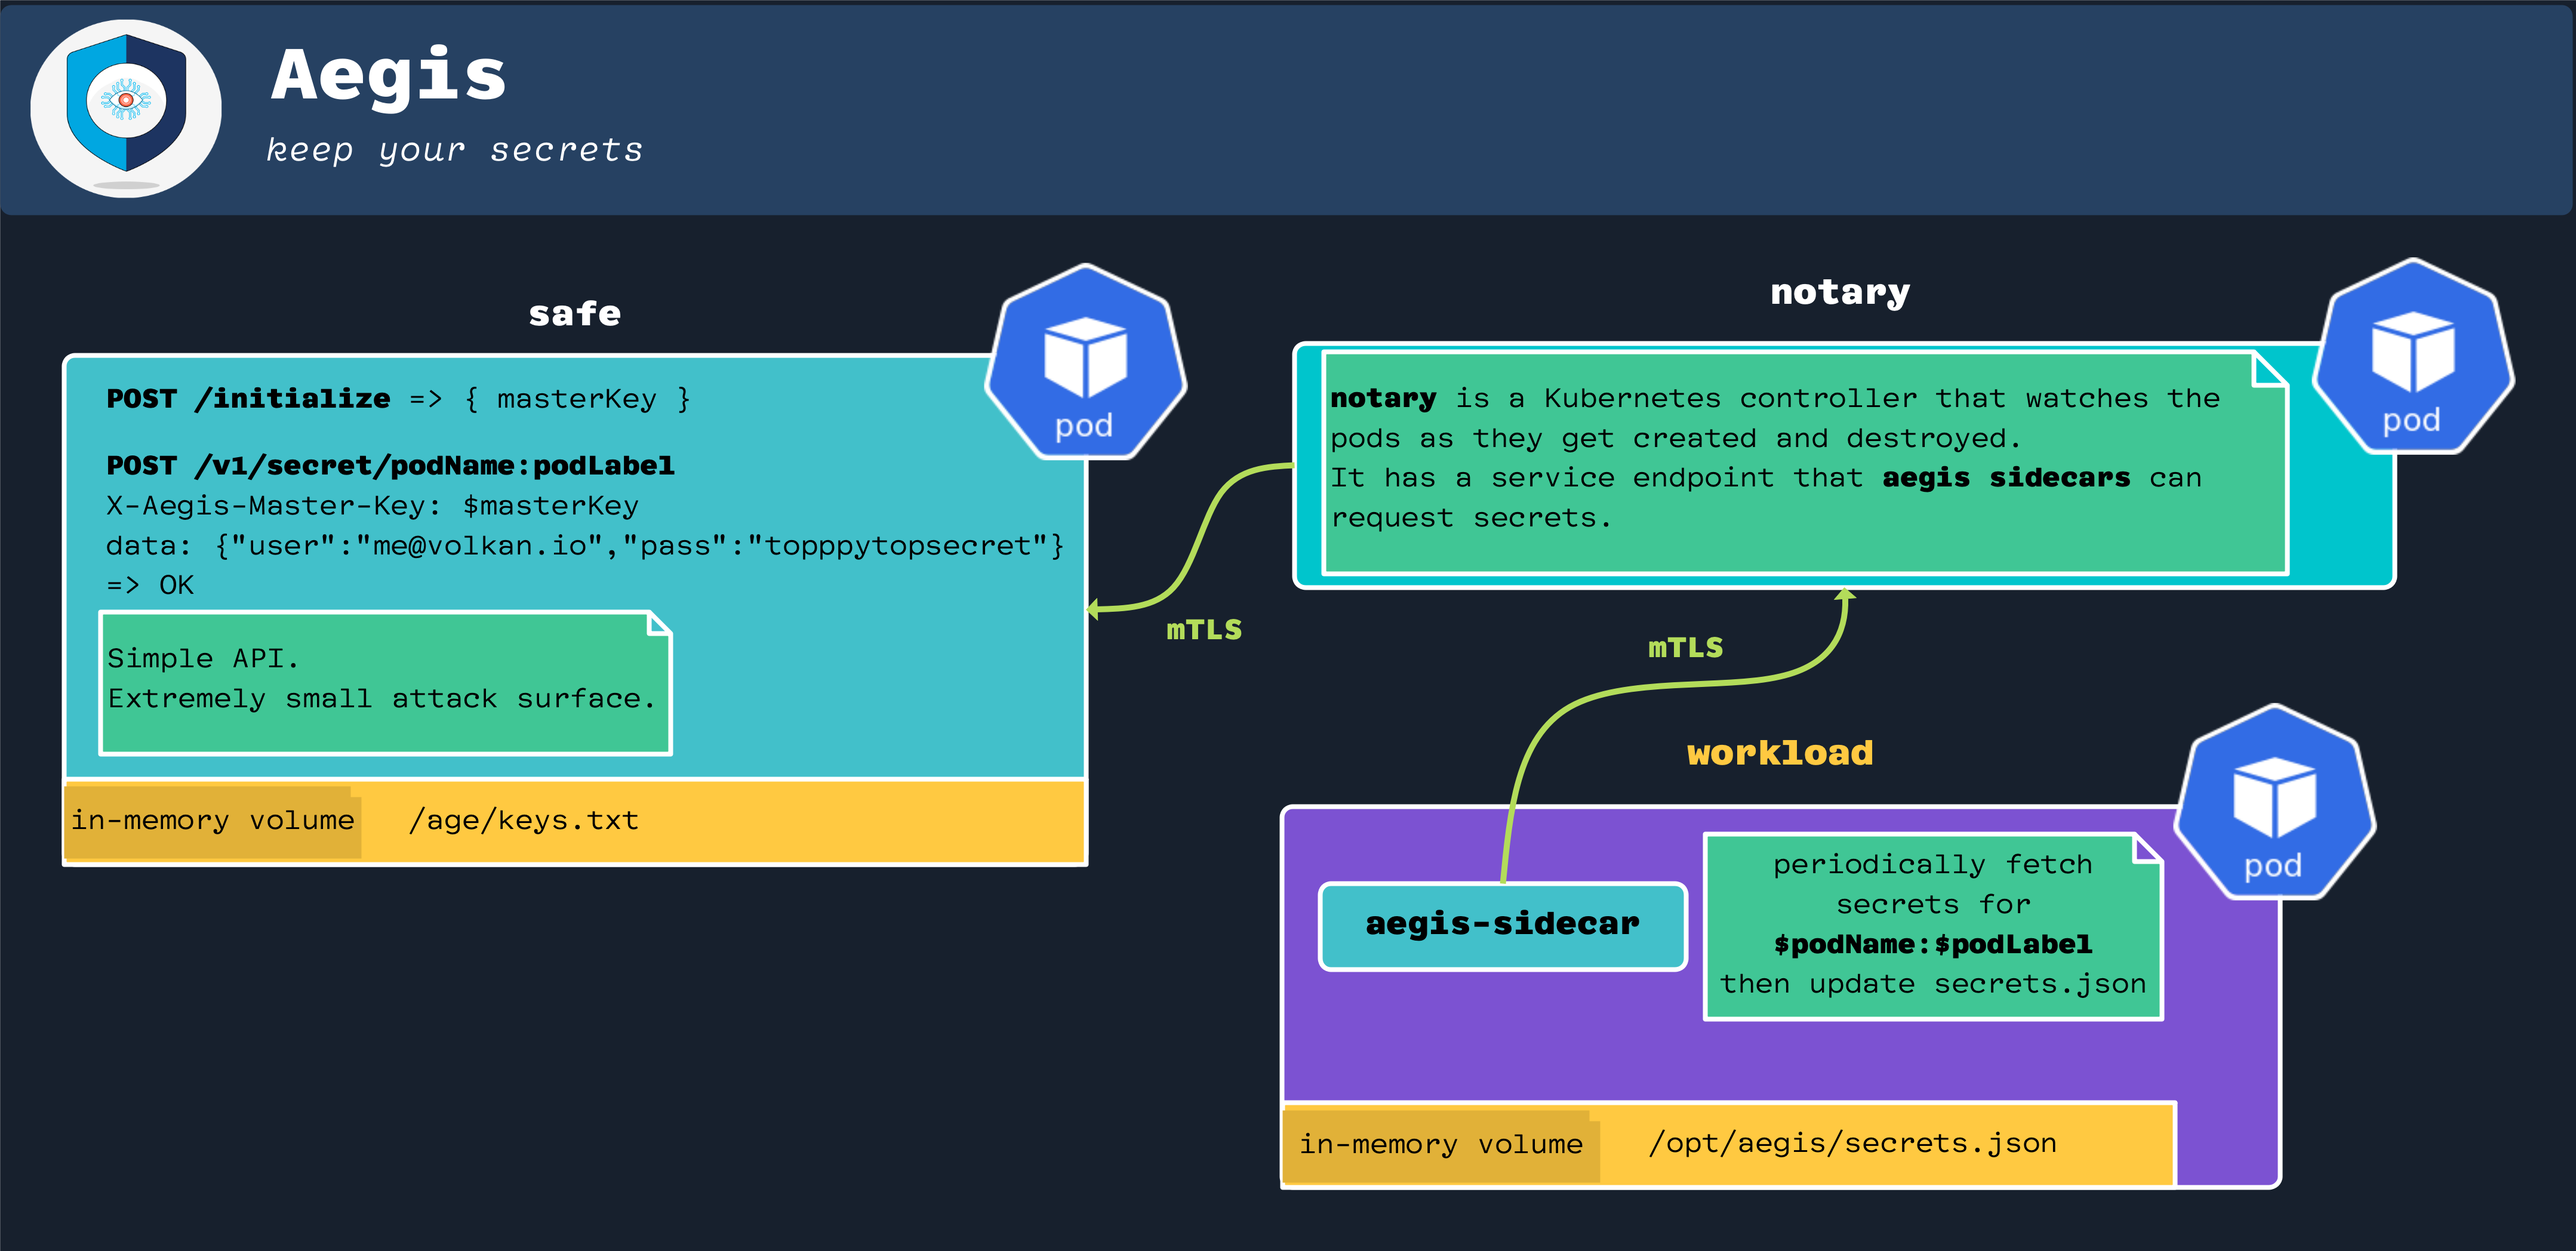
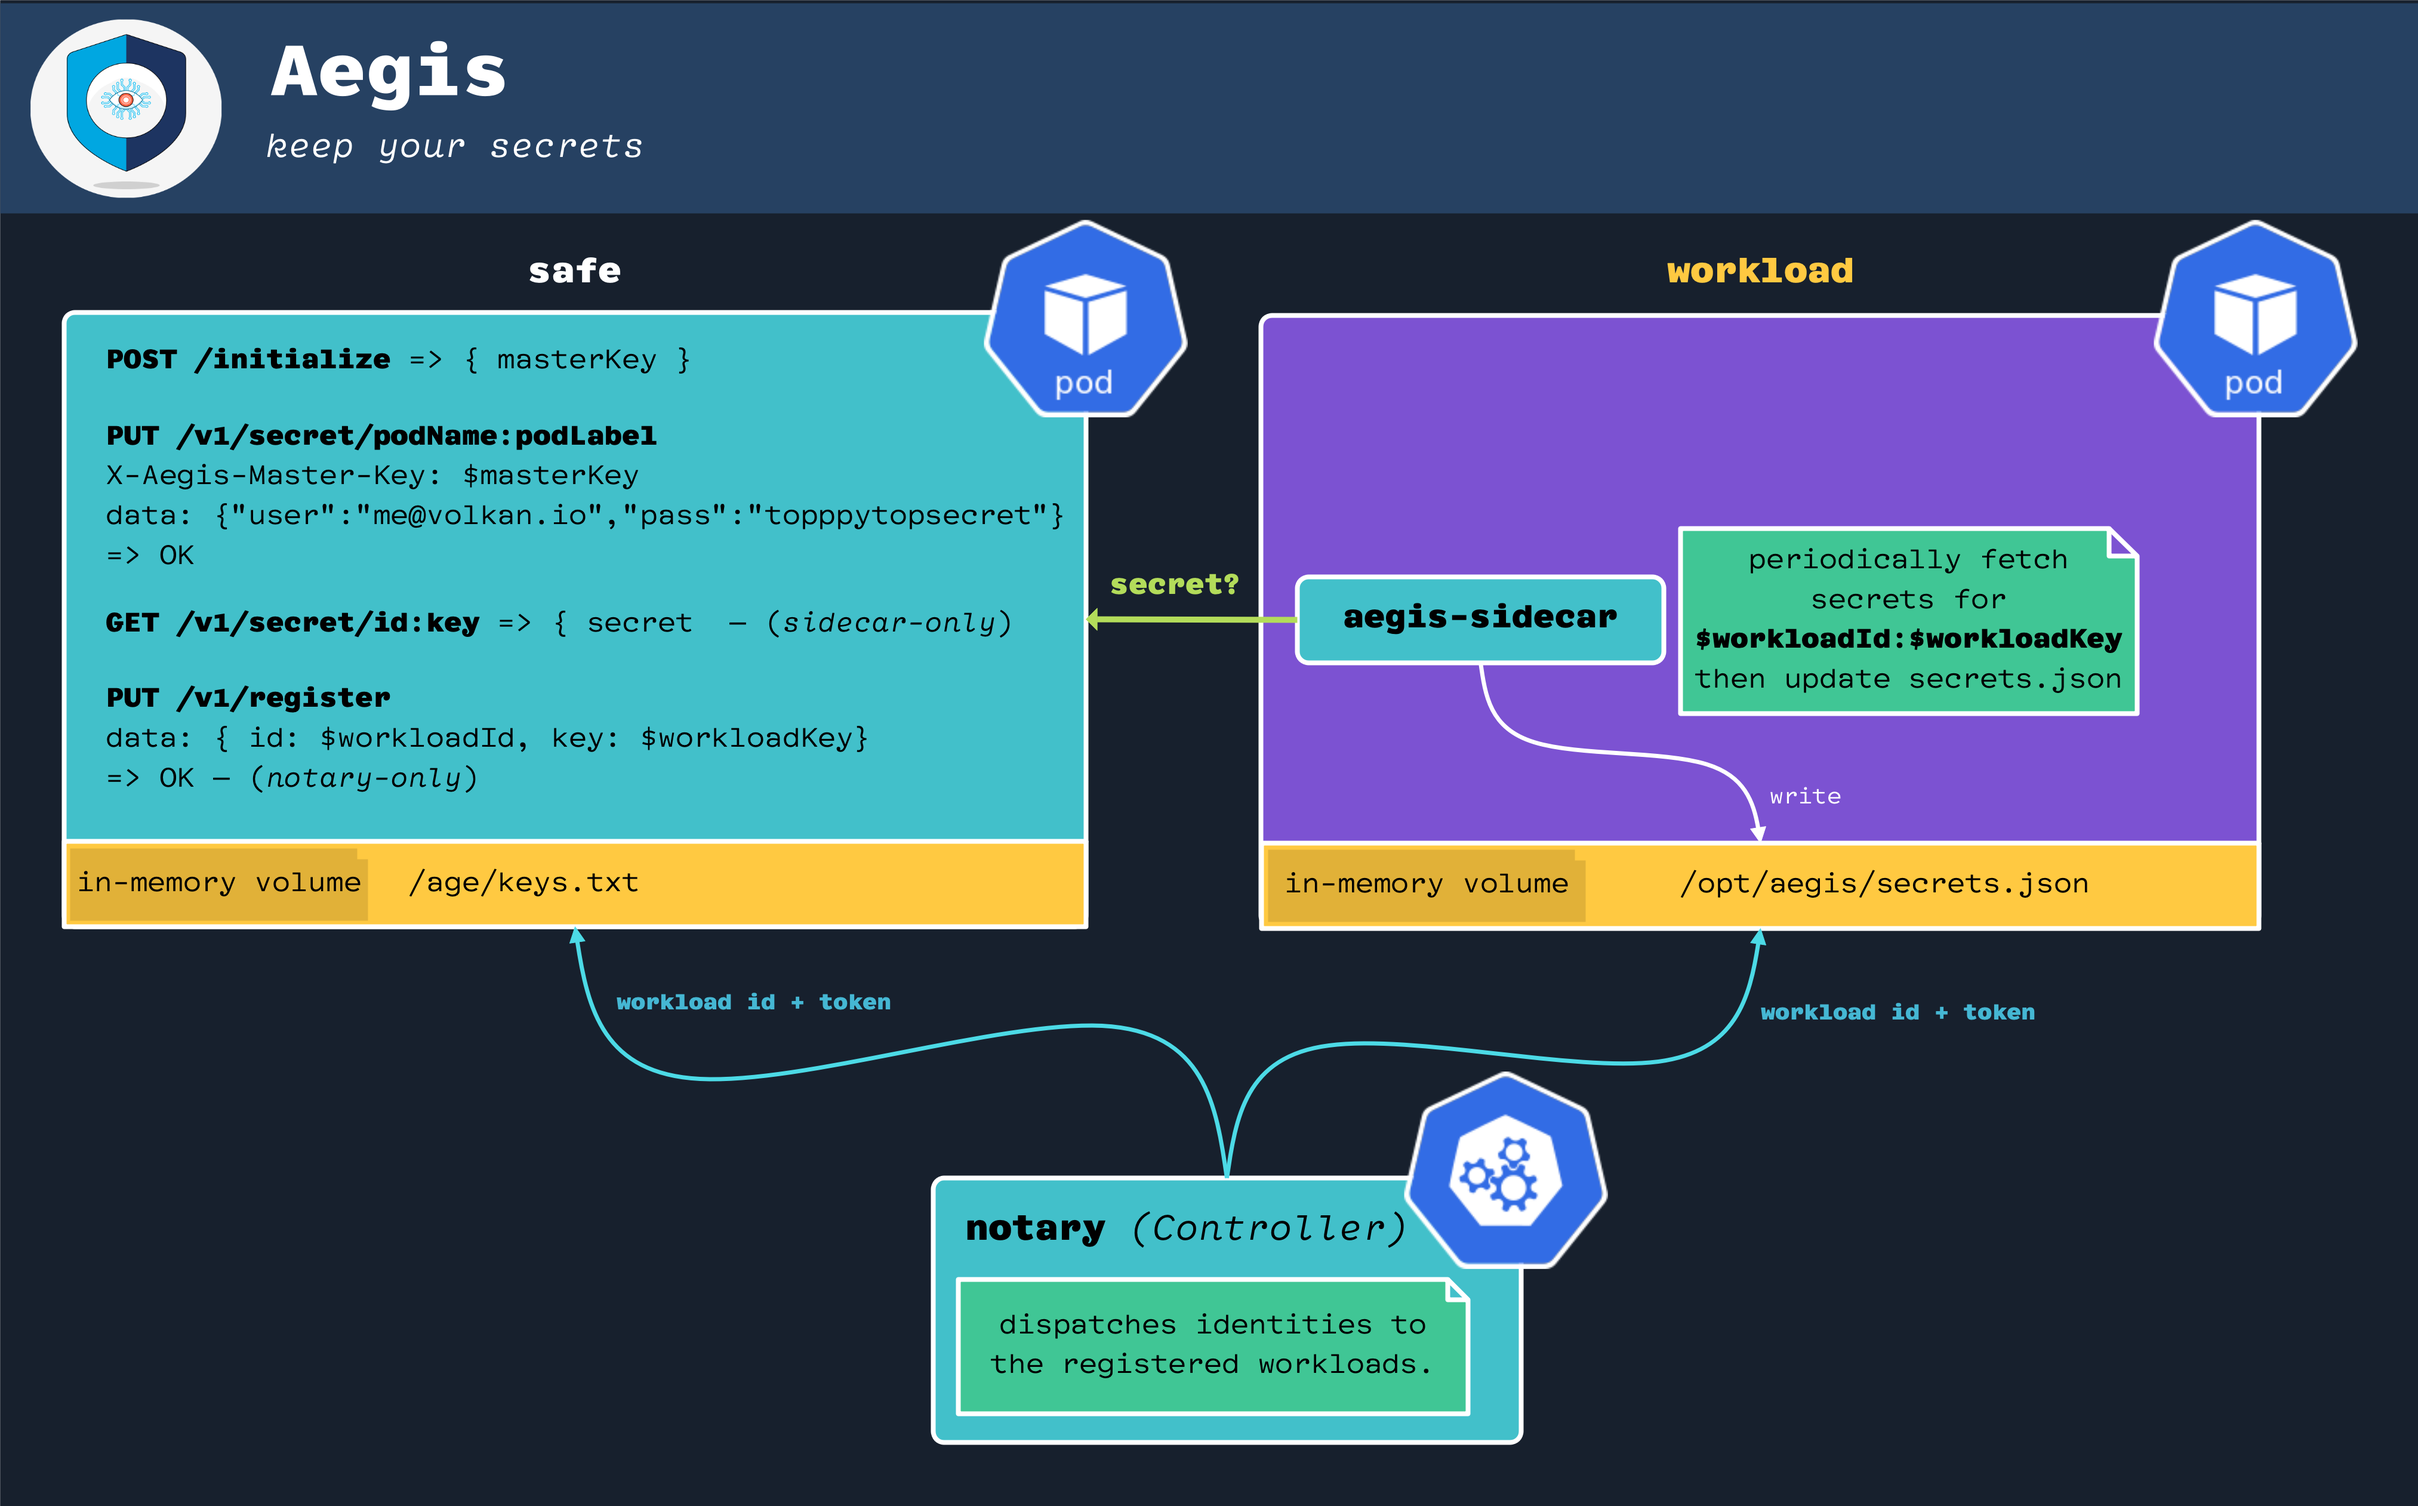
pretty pictures

diff --git a/safe/cmd/main.go b/safe/cmd/main.go
@@ -12,8 +12,11 @@ import (
 	"aegis-safe/internal/network/probe"
 	v1Network "aegis-safe/internal/network/v1"
 	"github.com/gorilla/mux"
+	"log"
 	"net/http"
 )
+
+const appName = "aegis-safe"
 
 func main() {
 	apiV1 := &v1Network.Api{}
@@ -24,6 +27,12 @@ func main() {
 	r.Methods(http.MethodGet).Path("/readyz").HandlerFunc(probe.Ready)
 
 	r.Methods(http.MethodPut).Path("/v1/secret/{value}").Handler(apiV1.SecretUpsert)
+
 	// TODO: this shall only be reachable via the sidecar thru mTLS.
 	r.Methods(http.MethodGet).Path("/v1/secret/{value}").Handler(apiV1.SecretRead)
+
+	port := ":8017"
+
+	log.Printf("[SAFE]: '%s' will listen at port '%s'.", appName, port)
+	log.Fatal(http.ListenAndServe(port, r))
 }

diff --git a/README.md b/README.md
@@ -41,8 +41,19 @@ business and protect against data breaches.
 // simple api
 // extremely small attack surface.
 
-## High-Level Conceptual Diagram
+## Design Documents
 
-// TODO: this diagram is outdated, update it.
+Note that this part is highly work-in-progress. Everything is under **a lot** of
+flux right now.
+
+### Aegis High-Level Architecture
 
 ![Aegis](assets/aegis-hla.png "Aegis High-Level Architecture")
+
+### Bootstrapping
+
+![Bootstrapping](assets/notary-state-handshake.png "Bootstrapping")
+
+### Sequence Diagram
+
+![Sequence Diagram](assets/sequence-diagram.png "Aegis High-Level Architecture")
